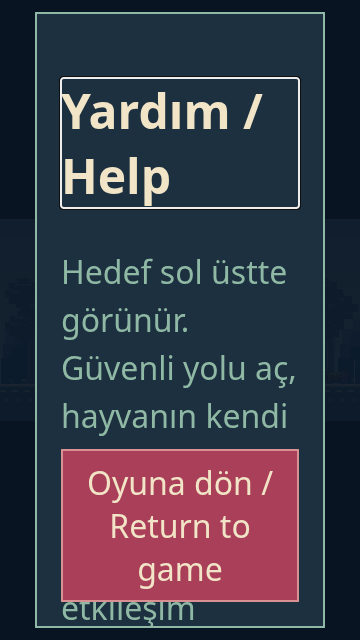
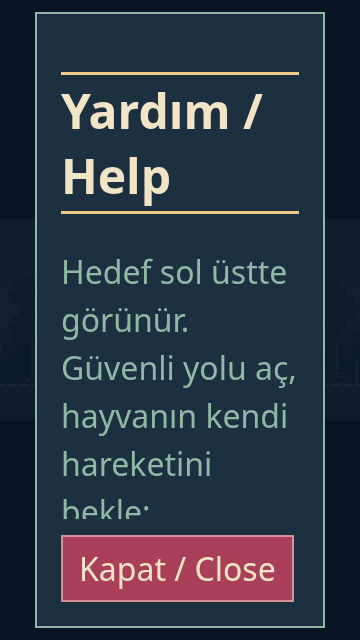
fix: prevent enlarged guide overlap and exclude hosting metadata from game

Changed region(s): [[0.1528, 0.6875, 0.8556, 0.9688], [0.1528, 0.0938, 0.8556, 0.3438]]

diff --git a/packaging/web_shell.html b/packaging/web_shell.html
@@ -26,8 +26,8 @@ button:focus-visible,a:focus-visible,summary:focus-visible{outline:3px solid var
 details{font-size:12px;margin:12px 0;color:var(--sage)}summary{min-height:28px;cursor:pointer}#error-detail{white-space:pre-wrap;overflow-wrap:anywhere}
 #footer{font-size:11px;margin-top:24px;letter-spacing:.05em;color:#a0b7b4}
 #help-toggle{position:fixed;z-index:11;width:44px;height:44px;padding:0;background:var(--panel);border-color:#8fb9a5;font-weight:bold}
-#help{width:min(700px,calc(100% - 24px));max-height:calc(100svh - 24px);overflow:auto;border:2px solid #8fb9a5;background:var(--panel);color:var(--paper);padding:24px}
-#help::backdrop{background:#0a1729d9}#help-close{position:sticky;bottom:0;margin-top:18px}
+#help{width:min(700px,calc(100% - 24px));max-height:calc(100svh - 24px);overflow:hidden;border:2px solid #8fb9a5;background:var(--panel);color:var(--paper);padding:24px}
+#help[open]{display:flex;flex-direction:column;gap:16px}#help-body{overflow:auto;min-height:0;flex:1 1 auto}#help-actions{flex:0 0 auto}#help::backdrop{background:#0a1729d9}#help-close{margin:0}#help-title:focus-visible{outline:3px solid var(--gold);outline-offset:3px}
 table{border-collapse:collapse;table-layout:fixed;width:100%;text-align:left}td,th{border-bottom:1px solid #587780;padding:8px 4px;overflow-wrap:anywhere}
 #full-page{display:inline-block;min-height:44px;padding:10px 0}.muted{color:var(--sage)}
 .sr-only{position:absolute;width:1px;height:1px;padding:0;margin:-1px;overflow:hidden;clip-path:inset(50%)}
@@ -50,6 +50,7 @@ $GODOT_HEAD_INCLUDE
 <div id="footer">FRAGARIA INTERACTIVE · SAVE THE PLANET 0.3.0</div></div></section>
 <button id="help-toggle" type="button" aria-label="Yardım ve mahremiyet / Help and privacy (F1)" title="Yardım / Help (F1)">?</button>
 <dialog id="help" aria-labelledby="help-title">
+<div id="help-body" tabindex="0" role="region" aria-label="Rehber içeriği / Guide content">
 <h2 id="help-title" tabindex="-1">Yardım / <span lang="en">Help</span></h2>
 <p>Hedef sol üstte görünür. Güvenli yolu aç, hayvanın kendi hareketini bekle; yakındayken etkileşim tuşunu kullan. Hikâye modunda hatalar ilerlemeyi silmez.</p>
 <p lang="en">Follow the goal at the top left. Open a safe path and let the animal move on its own. Interact when nearby. In Story mode, mistakes do not erase progress.</p>
@@ -68,8 +69,8 @@ $GODOT_HEAD_INCLUDE
 <p>Oyun hesap, reklam veya analiz kullanmaz. İlerleme, ayarlar ve oyunun yazılmış konuşma geçmişi bu cihazda saklanır. Ayarlar → Yerel veriler bölümünden kayıt ve yedekleri silebilirsin. Eski tarayıcı dosyalarının geri gelmesini önlemek için yalnızca bir silme işareti tutulur; ilerleme içermez. Sunucu, dosya istekleri için erişim bilgilerini işleyebilir; bu kayıtlar ve tarayıcı önbelleği oyun içinden silinmez.</p>
 <p lang="en">The game uses no accounts, ads or analytics. Progress, settings and authored dialogue history are stored on this device. Use Settings → Local data to delete saves and backups. Only an erasure marker is retained to stop stale browser files restoring progress; it contains no progress. The host may process access data for file requests; host logs and browser caches are not deleted by the game.</p>
 <p class="muted">Oyun alanı görsel hareket takibi gerektirir; ekran okuyucuyla tam oynanış doğrulanmadı. / <span lang="en">Gameplay requires visual tracking; full screen-reader play has not been verified.</span></p>
-<a id="full-page" hidden target="_blank" rel="noopener">Tam sayfa aç / Open full page</a><br>
-<button id="help-close" type="button">Oyuna dön / Return to game</button>
+<a id="full-page" hidden target="_blank" rel="noopener">Tam sayfa aç / Open full page</a>
+</div><div id="help-actions"><button id="help-close" type="button">Kapat / Close</button></div>
 </dialog>
 <noscript>JavaScript gerekli / JavaScript is required.</noscript>
 <script src="$GODOT_URL"></script>
@@ -90,7 +91,7 @@ const engine=new Engine(GODOT_CONFIG);
 const canvas=document.getElementById('canvas'),loading=document.getElementById('loading'),progress=document.getElementById('progress');
 const help=document.getElementById('help'),helpToggle=document.getElementById('help-toggle');
 function positionHelp(){const r=canvas.getBoundingClientRect(),scale=Math.min(r.width/960,r.height/540);helpToggle.style.left=(r.left+(r.width-960*scale)/2+770*scale)+'px';helpToggle.style.top=(r.top+(r.height-540*scale)/2+12*scale)+'px';}
-function openHelp(){help.showModal();help.scrollTop=0;document.getElementById('help-title').focus({preventScroll:true});}
+function openHelp(){help.showModal();document.getElementById('help-body').scrollTop=0;document.getElementById('help-title').focus({preventScroll:true});}
 helpToggle.addEventListener('click',openHelp);
 document.getElementById('help-close').addEventListener('click',()=>help.close());
 help.addEventListener('close',()=>canvas.focus());

diff --git a/tests/browser_quality.py b/tests/browser_quality.py
@@ -60,7 +60,9 @@ with sync_playwright() as p:
         check(state()['menu']=='pause' and abs(state()['x']-before)<1,'Opening web help pauses the actual game and releases held movement')
         page.set_viewport_size({'width':360,'height':640});page.screenshot(path=str(E/'help-phone-portrait.png'))
         check(page.locator('#help').evaluate('(d)=>d.scrollWidth<=d.clientWidth'),'Text guide fits a small portrait viewport without horizontal overflow')
+        check(page.evaluate('document.getElementById("help-body").getBoundingClientRect().bottom<=document.getElementById("help-close").getBoundingClientRect().top'),'Portrait help footer reserves space instead of covering instructions')
         page.evaluate('document.documentElement.style.fontSize="200%"')
+        check(page.evaluate('document.getElementById("help-body").getBoundingClientRect().bottom<=document.getElementById("help-close").getBoundingClientRect().top'),'200% text help footer does not overlap the scrolling body')
         page.screenshot(path=str(E/'help-200-percent.png'))
         page.locator('#help-close').click();check(not page.locator('#help').is_visible(),'Text guide close action works at 200% text enlargement')
         page.keyboard.press('F1');page.wait_for_timeout(120);page.evaluate('document.documentElement.style.fontSize=""')

diff --git a/docs/VALIDATION_0.3.md b/docs/VALIDATION_0.3.md
@@ -11,7 +11,7 @@
 | TR klavye tam kampanya | PASS | Gerçek browser 112 kontrol, 0 JS/konsol hatası; final/reload/devam. QA f4444d4641d69e40. |
 | EN Gamepad API tam kampanya | PASS | Tekrarda 112 kontrol/0 JS-konsol hatası; 10 bölüm, final, reload/devam tamamen kontrolcü girdileriyle. İlk 61 kontrollük FAIL koşusu korunur. Fiziksel kol NOT TESTED. |
 | Gamepad API menü/remap/hotplug | PASS | 11 kontrol; klavyesiz A/B menüler, RS remap/etiket/gerçek yetenek, eski X kaldırma, disconnect release/pause, reconnect açık resume, reload'da atama korunması. Fiziksel kol değildir. |
-| Browser yerel veri/güvenlik | PASS | Son18 kontrol; CSP gerçekten izinsiz inline script'i reddetti, depolama reddi görünür/kurtarılır, silme/iptal/başka uygulama verisi/hızlı reload ve başka scope'taki service worker korunması doğrulandı. Beklenen CSP reddi dışında 0 hata. |
+| Browser yerel veri/güvenlik | PASS | Son20 kontrol; CSP gerçekten izinsiz inline script'i reddetti, depolama reddi görünür/kurtarılır, silme/iptal/başka uygulama verisi/hızlı reload ve başka scope'taki service worker korunması doğrulandı. Beklenen CSP reddi dışında 0 hata. |
 | Çoklu dokunma/odak/tercihler | PASS | 12; gerçek Chromium girdileriyle yön+zıplama/yetenek; TR/EN/büyük metin/düşük efekt; canvas blur/reload. |
 | Shell yükleme/hata/iframe | PASS | 7; gerçek byte callback, WASM503 → Retry, AudioContext running ve iframe yardımından tam sayfa bağlantısı. Duyulabilir ses NOT TESTED. |
 | Export güncellemesi | PASS | Aynı origin üzerinde 39b831ddf9799703 → dd8a1a51569ad289, kayıt korundu; yalnız yeni engine dosyaları, 0 hata. |
@@ -39,3 +39,7 @@ Tam klavye kampanyası f4444d4641d69e40, tam Gamepad API kampanyası ve son brow
 ## İzole performans örneği
 
 Aynı Linux/Chromium/SwiftShader, 1152×648 CSS/canvas, a1l1 başlangıcı ve boşta oyuncu, diğer oyun tarayıcıları kapalı; 180 requestAnimationFrame örneği. Önce0.2: medyan33,4ms/p95 66,6ms, Godot25FPS, statik allocator27.776.831 byte, yerel başlangıç2459,1ms. Son0.3 QA2b51e35d3bc5cfee: medyan33,4ms/p95 50,1ms, Godot24FPS, statik allocator26.179.397 byte, yerel başlangıç3021,6ms. Bunlar tekil örneklerdir; nedensel hızlanma veya hedef cihaz garantisi çıkarılmaz. **60FPS kapısı bu ortamda FAIL.** Statik allocator toplam WASM/browser belleği değildir; toplam bellek, enerji ve giriş gecikmesi NOT TESTED. Shell işlev testi başka browser ile eşzamanlıydı; oradaki FPS bağımsız benchmark yerine kullanılmaz.
+
+Görsel incelemede dar ekran ve 200% metinde sticky rehber düğmesi içeriği örtüyordu. Rehber gövdesi ayrı scroll bölgesi, düğme ayrılmış footer alanı yapıldı. Ölçülmüş iki örtüşmeme kontrolüyle browser veri/güvenlik toplamı20/20, 0 beklenmedik hata; yeni görüntüler insan gözüyle incelendi.
+
+Vercel dirty kaydı araştırıldı: 2b3f16b sunucu manifesti `M vercel.json` ve `.vercel/` üretim metadata'sını bildirdi. İlk PCK'de `vercel.json` yolu gerçekten bulundu. Hosting yapılandırması/dot metadata tüm export preset'lerinden dışlandı ve `.vercel/` ignore edildi. Ham worktree değişimleri manifestte kalır; temiz kaynak veya eşit PCK hash'i doğrulanmadan iddia edilmez.

diff --git a/docs/PROGRESS.md b/docs/PROGRESS.md
@@ -13,7 +13,7 @@ AIONIA v1.1 teknoloji bağımsız talebi için mevcut Godot oyunu iyileştirildi
 
 ## Gerçek doğrulama durumu
 
-120 kampanya +24 kritik +30 yeni native davranış kontrolü ve ayrı süreç kayıt okuma PASS. TR gerçek klavye kampanyası 112/112, hata yok. Kontrolcü menülerinin 11 kontrolü PASS. Mahremiyet/erişilebilirlik/yükleme/güncelleme son koşularının kayıtları VALIDATION_0.3.md'de izlenir. Tam EN Gamepad API kampanyası tekrarında 112/112 ve 0 JS/konsol hatasıyla geçti. İlk denemenin 61. kontrolündeki test varış hatası ve FAIL kanıtı saklandı; yardımcının gövde durduktan sonraki konum kontrolü düzeltildi. Tarayıcı veri/güvenlik18, gamepad menü11, erişilebilirlik12 ve shell7 PASS; export güncellemesinde kayıt korundu.
+120 kampanya +24 kritik +30 yeni native davranış kontrolü ve ayrı süreç kayıt okuma PASS. TR gerçek klavye kampanyası 112/112, hata yok. Kontrolcü menülerinin 11 kontrolü PASS. Mahremiyet/erişilebilirlik/yükleme/güncelleme son koşularının kayıtları VALIDATION_0.3.md'de izlenir. Tam EN Gamepad API kampanyası tekrarında 112/112 ve 0 JS/konsol hatasıyla geçti. İlk denemenin 61. kontrolündeki test varış hatası ve FAIL kanıtı saklandı; yardımcının gövde durduktan sonraki konum kontrolü düzeltildi. Tarayıcı veri/güvenlik20, gamepad menü11, erişilebilirlik12 ve shell7 PASS; export güncellemesinde kayıt korundu.
 
 ## Açık kapsam / devam noktası
 

diff --git a/docs/PRIVACY_AND_SECURITY.md b/docs/PRIVACY_AND_SECURITY.md
@@ -23,3 +23,5 @@ Export HTML'i gerçek inline bootstrap için SHA-256 CSP hash'i üretir. Genel J
 Vercel yapılandırması nosniff, kısıtlı referer ve kullanılmayan kamera/mikrofon/konum/ödeme/USB izinlerini kapatan başlıklar ekler. Gamepad/fullscreen iframe kullanımını ve mevcut SSO korumasını keyfî biçimde kaldırmaz. Yerel test sunucusunun Vercel başlıklarını sunduğu varsayılmaz; uzak başlık doğrulaması ayrıca raporlanır.
 
 Release keystore/parolalar `.gitignore` ile dışarıda; Android imza kimliği değiştirilmez. Windows Authenticode ve fiziksel kurulum testi hâlâ açık. Ekran okuyucu, fiziksel cihaz, çok sekmeli eşzamanlı oyun ve bağımsız penetrasyon denetimi test edilmeden onaylanmış sayılmaz.
+
+Hosting yapılandırması `vercel.json` ve `.vercel/` metadata çalışma zamanı export'una dahil edilmez. Provider'ın build sırasında kendi yapılandırmasını değiştirmesi ham BUILD değişim listesinde görünür; bu liste sessizce temiz diye işaretlenmez.
